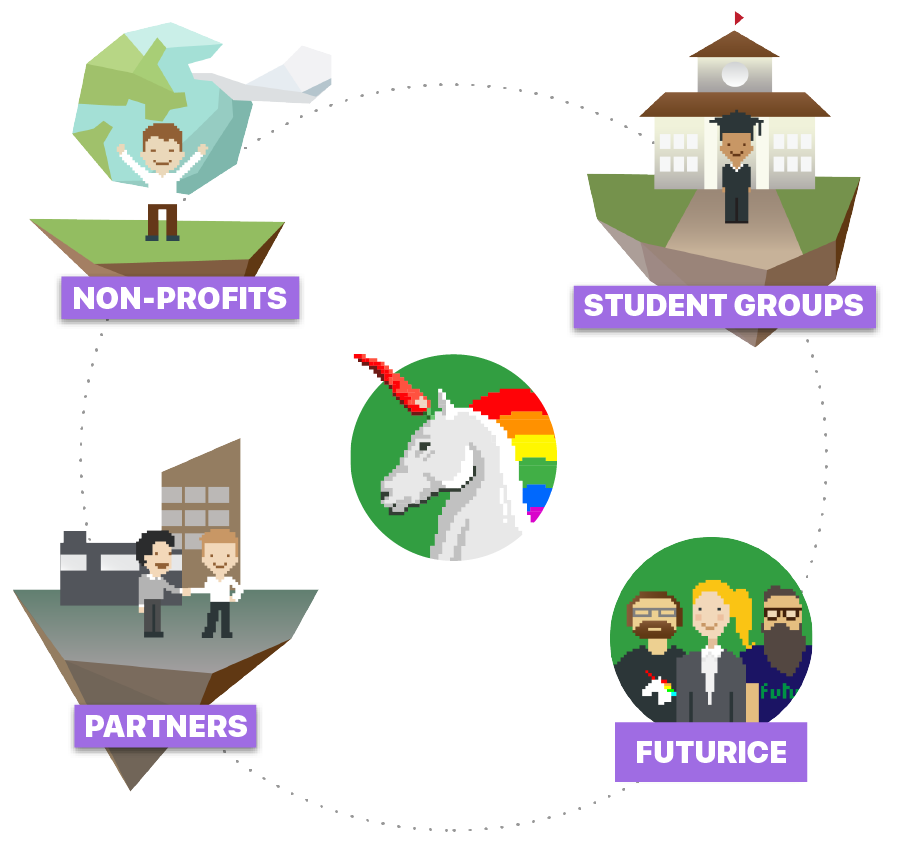
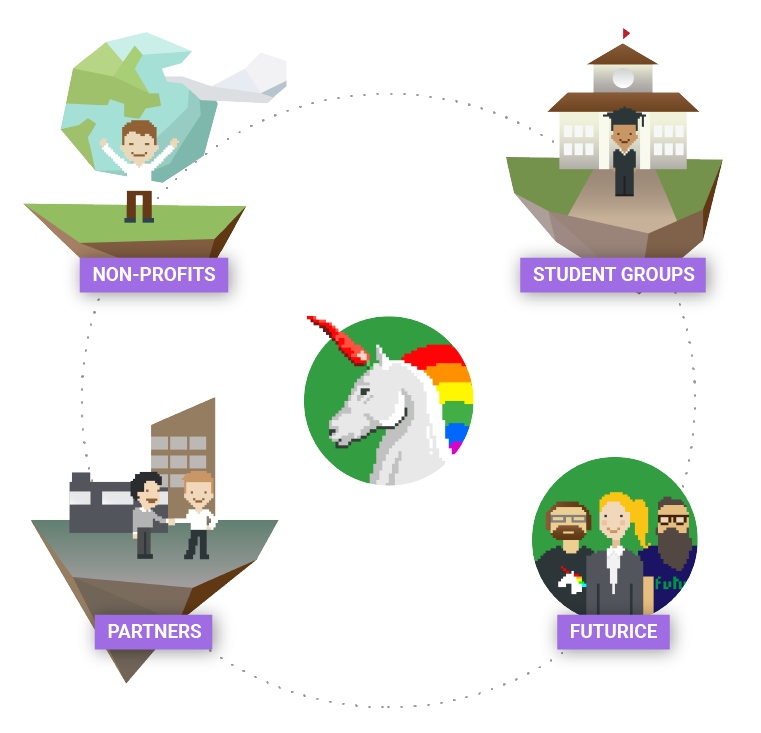
Chilicorn diagram update on home page

diff --git a/assets/css/css.scss b/assets/css/css.scss
@@ -365,7 +365,7 @@ section.probono {
   }
   //background-color: #ececec;
   img {
-    max-width: 600px;
+    max-width: 760px;
     margin-top: 2rem;
     margin-bottom: 3rem;
     width: 100%;
